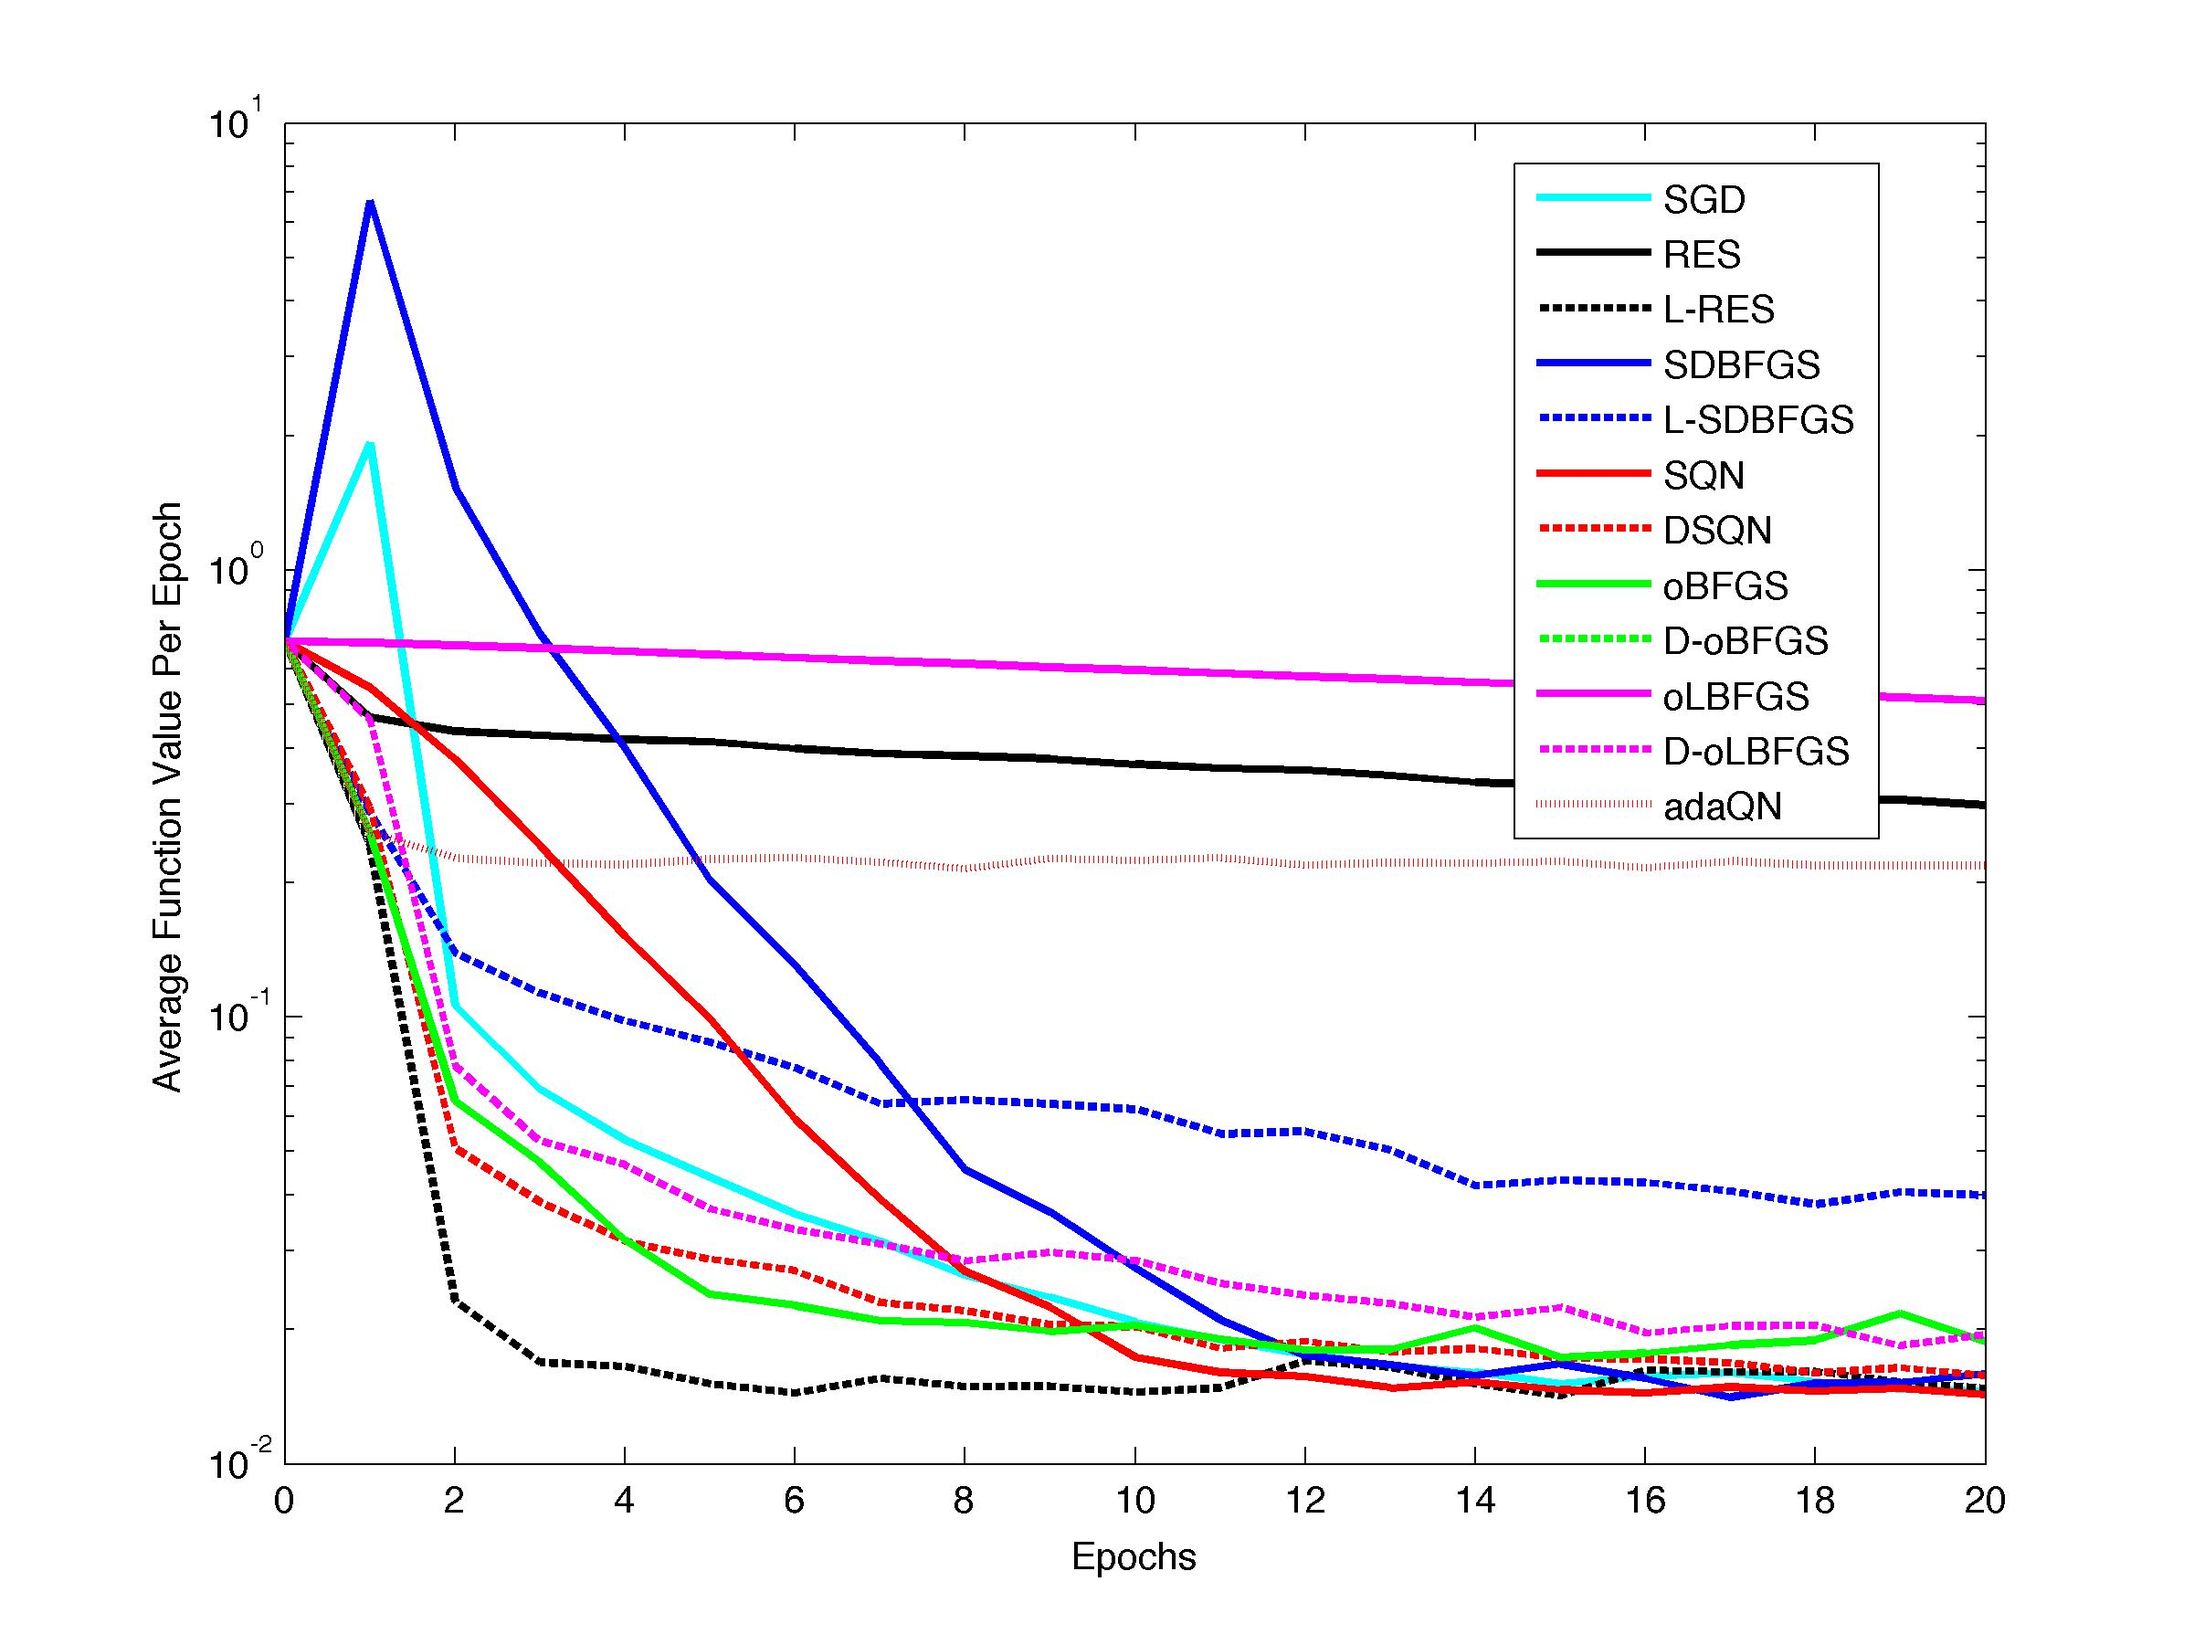
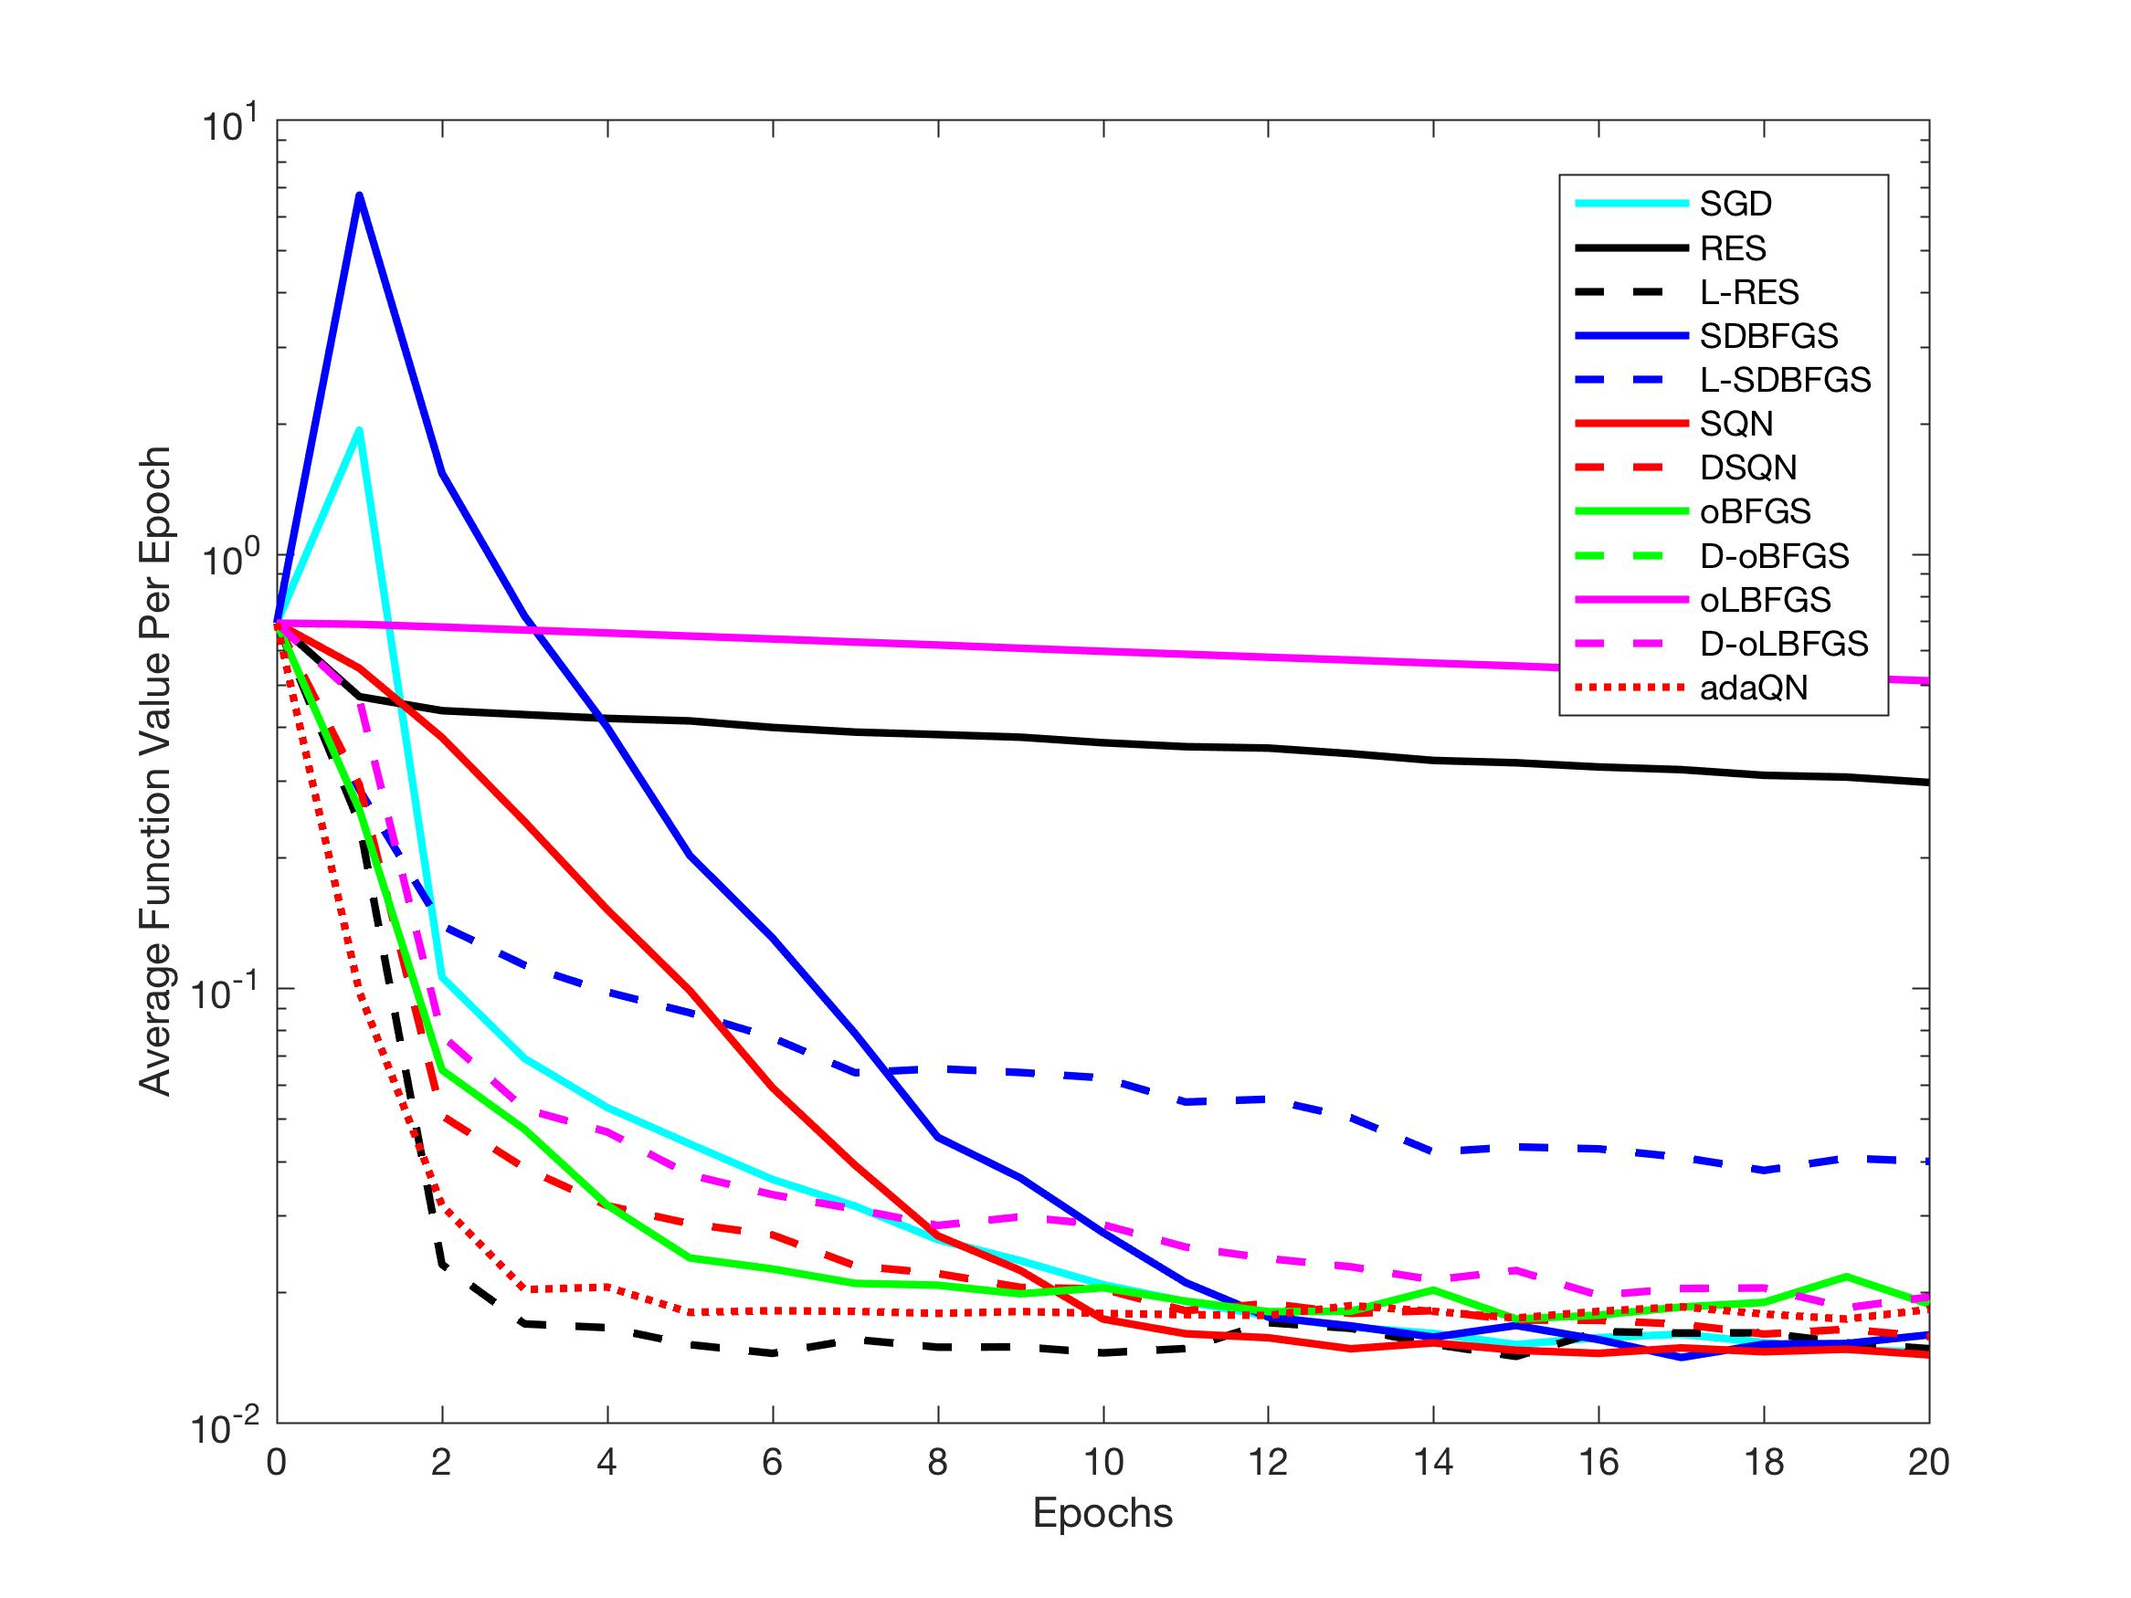
Changes to adaQN
I made a few changes to the adaQN code:

1. I have now made RMS the default initializer for H0. I have found
that this leads to better generalization of the method as compared to
adaQN.

2. I set the value of parameter for curvature-pair rejection to 1E-4
(from 1E-8) to match the paper. The previous value was too forgiving to
lead to improved performance.

3. I made a change on Line 157 which forces MATLAB to use an efficient
order in multiplication preventing memory problems.

diff --git a/+methods/adaQN.m b/+methods/adaQN.m
@@ -97,7 +97,7 @@ for tuning_step = 1:number_of_tuning_steps
         w_s = zeros(problem.n,1);
         w_o = zeros(problem.n,1);
         % initialize the quasi-Newton class
-        qn = helpers.QuasiNewton(options.lbfgs_memory,'ADAGRAD');
+        qn = helpers.QuasiNewton(options.lbfgs_memory,options.H0);
         % create the Fisher container
         fisher_container = [];
         
@@ -154,11 +154,11 @@ for tuning_step = 1:number_of_tuning_steps
                         end
                         % update the curvature pairs
                         s = w_n - w_o;
-                        y = fisher_container * fisher_container' * s;
+                        y = fisher_container * (fisher_container' * s);
                         % if curvature estimate is less than sqrt of
                         % machine precision, SKIP the curvature pair update
                         rho = dot(s,y)/dot(y,y);
-                        if(rho>sqrt(eps))
+                        if(rho>1e-4)
                             qn.store(s,y);
                             w_o = w_n;
                         else

diff --git a/minSQN.m b/minSQN.m
@@ -323,6 +323,9 @@ switch options.method
         log_struct = methods.SQN_HvProd(problem,options,hyperparameters);
     % adaQN
     case {'adaQN'}
+        if(~ (strcmp(options.H0,'ADAGRAD') || strcmp(options.H0,'RMS')))
+            options.H0 = 'RMS';
+        end
         log_struct = methods.adaQN(problem,options,hyperparameters);
     % safeguarding........
     otherwise
